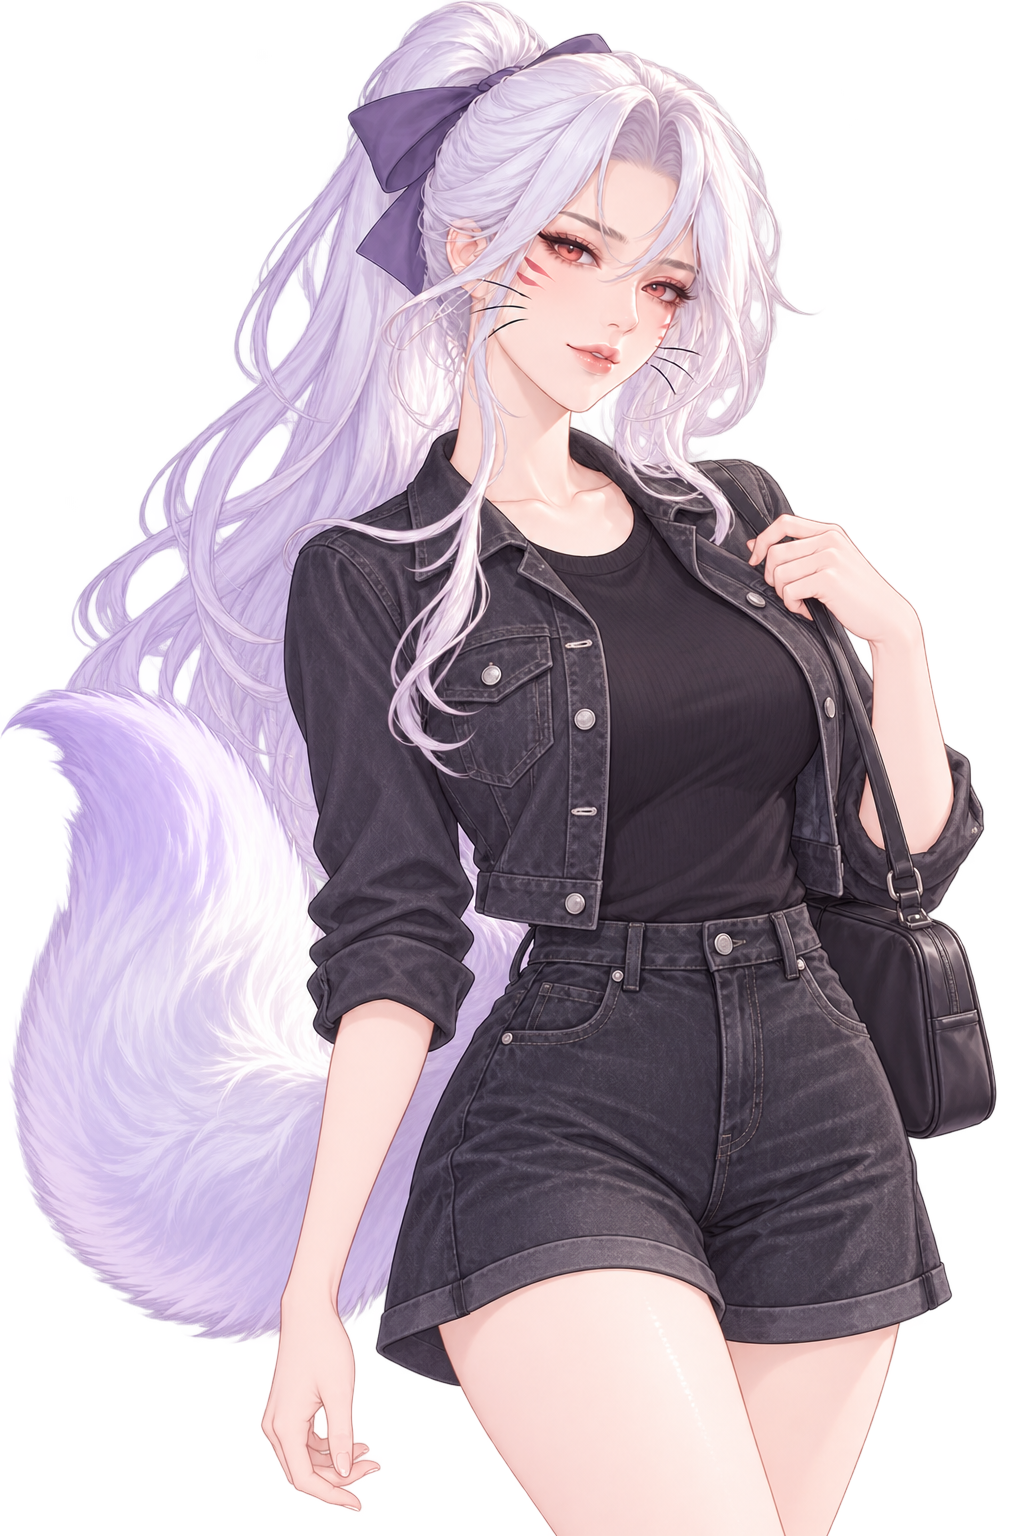
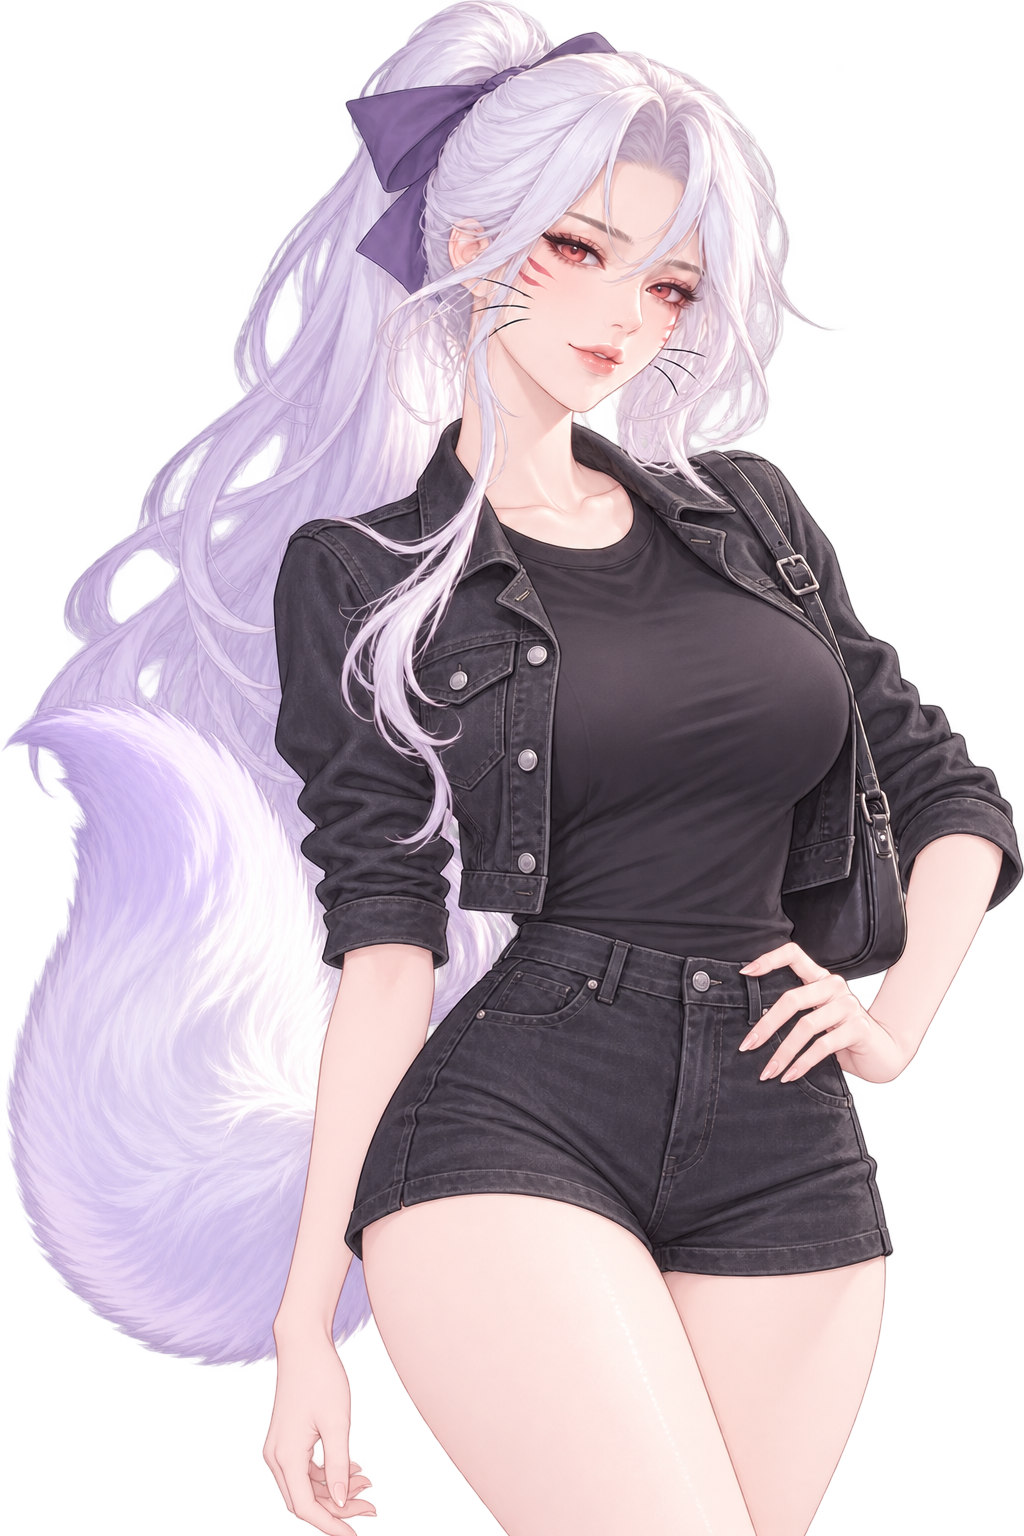
꾸민 데님 의상 여섯 장 슬림핏으로 교체

Changed region(s): [[0.0, 0.0, 1.0, 1.0], [0.1875, 0.5312, 0.25, 0.6562], [0.1562, 0.6562, 0.1875, 0.6875]]

diff --git a/docs/illustration-replacement-prompts.md b/docs/illustration-replacement-prompts.md
@@ -104,18 +104,18 @@ CG는 공통 CG 블록과 파일별 장면 프롬프트를 이어 붙인다. 무
 
 ### CH12 꾸민 의상 P1 세트
 
-공통 구도: 머리 위부터 무릎 바로 위까지 보이는 무릎 위 크롭.
+공통 구도: 머리 위부터 허벅지 중간까지 보이며 반바지 전체와 허벅지 일부가 보이는 세로 크롭.
 
-의상 블록: 허리선에서 끝나는 짧은 검정 데님 재킷, 몸에 딱 맞는 불투명 검정 반팔 상의, 허벅지 중간 길이의 하이웨이스트 검정 데님 반바지, 작은 검정 가방. 상의와 하의는 몸매에 맞게 슬림하게 재단하고 헐렁하거나 펑퍼짐하지 않게 한다. 배와 가슴골은 드러내지 않으며 장식·로고·문자는 넣지 않는다.
+의상 블록: 허리선에서 끝나는 짧은 검정 데님 재킷, 몸에 딱 맞고 허리선에 넣어 입은 불투명 검정 반팔 상의, 허벅지 윗부분까지 오는 하이웨이스트 검정 데님 쇼츠, 작은 검정 가방. 기존보다 하의 길이를 짧게 하고 상의와 하의 모두 몸매에 맞는 슬림 핏으로 재단해 헐렁하거나 펑퍼짐하지 않게 한다. 복부와 가슴골은 드러내지 않고 쇼츠는 불투명하게 유지한다. 찢김·장식·로고·문자는 넣지 않는다.
 
 | 파일 | 개별 표정·포즈 프롬프트 |
 |---|---|
-| [P1-1.png](../assets/standing/P1-1.png) | 차분한 기본 얼굴, 한 손으로 재킷 깃을 정리하고 자연스럽게 선다. |
-| [P1-2.png](../assets/standing/P1-2.png) | 자신감 있고 따뜻한 미소, 몸을 살짝 비스듬히 두고 편안한 시선. |
-| [P1-3.png](../assets/standing/P1-3.png) | 누군가 불러 놀란 순간, 눈을 크게 뜨고 재킷 깃을 잡는다. |
-| [P1-4.png](../assets/standing/P1-4.png) | 데이트 복장을 의식해 살짝 부끄러워하며 시선을 아래로 내린다. |
-| [P1-5.png](../assets/standing/P1-5.png) | 상대의 반응을 살피는 걱정스러운 표정, 양손을 서로 닿지 않게 몸 앞에 따로 든다. |
-| [P1-6.png](../assets/standing/P1-6.png) | 괜찮은 척 새침하게 웃으며 한쪽으로 시선을 돌린다. |
+| [P1-1.png](../assets/standing/P1-1.png) | 차분한 기본 얼굴, 한 손으로 재킷 깃을 가볍게 잡고 다른 손은 자연스럽게 내린다. |
+| [P1-2.png](../assets/standing/P1-2.png) | 자신감 있고 따뜻한 미소, 몸을 살짝 비스듬히 두고 한 손을 허리에 둔다. |
+| [P1-3.png](../assets/standing/P1-3.png) | 누군가 불러 놀란 순간, 눈을 크게 뜨고 어깨를 살짝 올린 채 한 손은 재킷 깃에 둔다. |
+| [P1-4.png](../assets/standing/P1-4.png) | 데이트 복장을 의식해 살짝 부끄러워하며 시선을 아래로 내리고 양팔은 편하게 내린다. |
+| [P1-5.png](../assets/standing/P1-5.png) | 몸을 살짝 돌려 상대의 반응을 살피며 걱정스러운 표정을 짓고 한 손은 재킷 앞에 둔다. |
+| [P1-6.png](../assets/standing/P1-6.png) | 장난스럽게 옆을 흘겨보며 한 손으로 가방끈을 잡는다. |
 
 ### CH13 자유 의상 C13 세트
 
